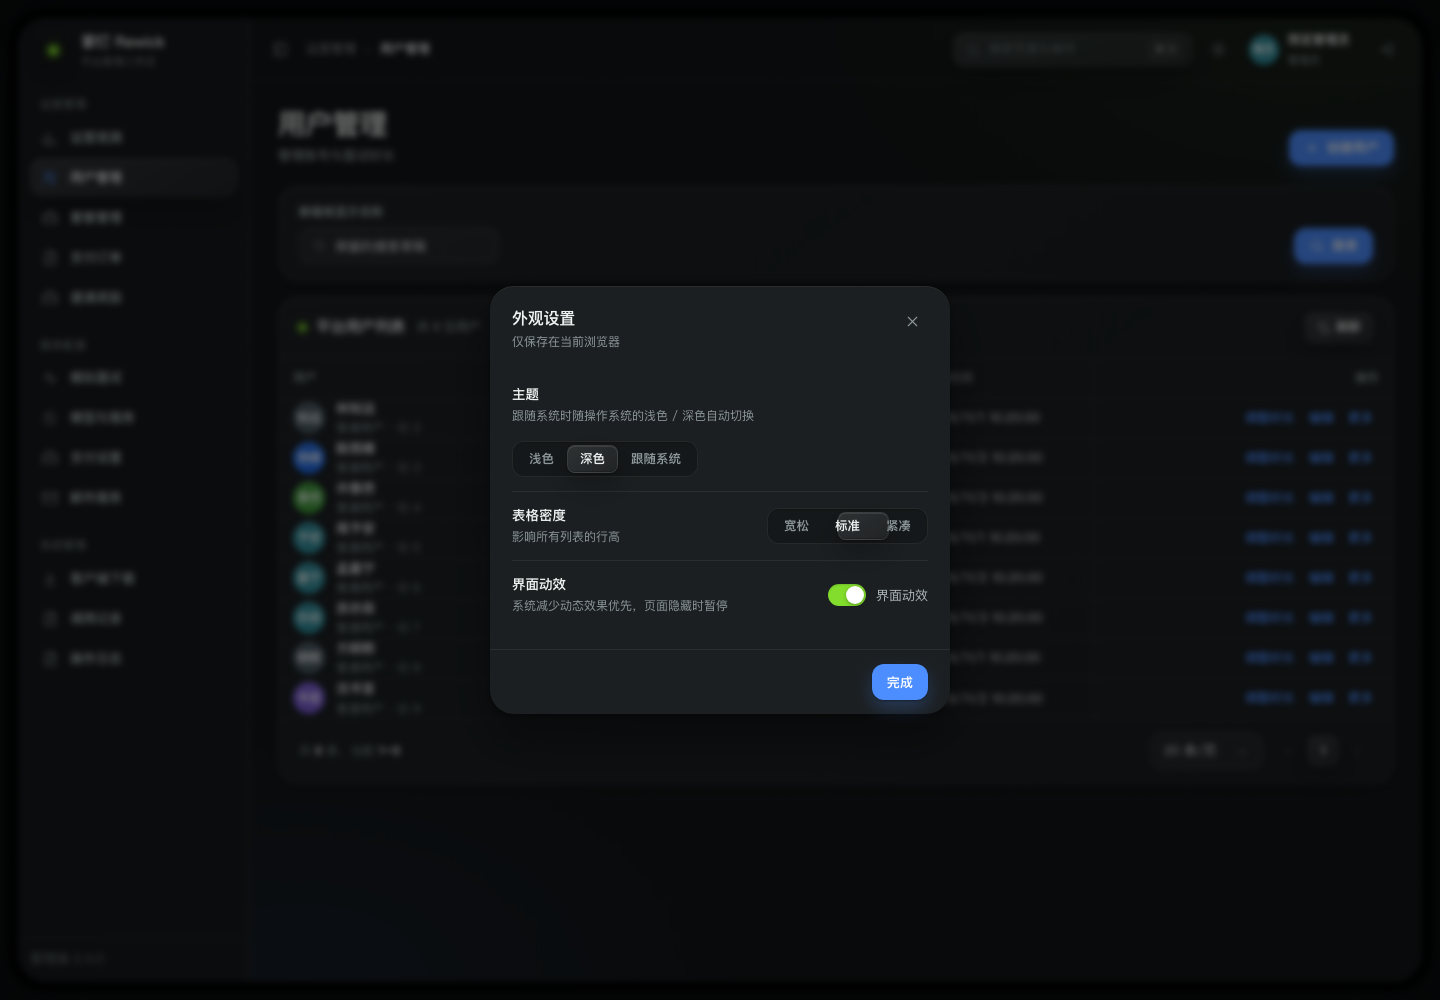
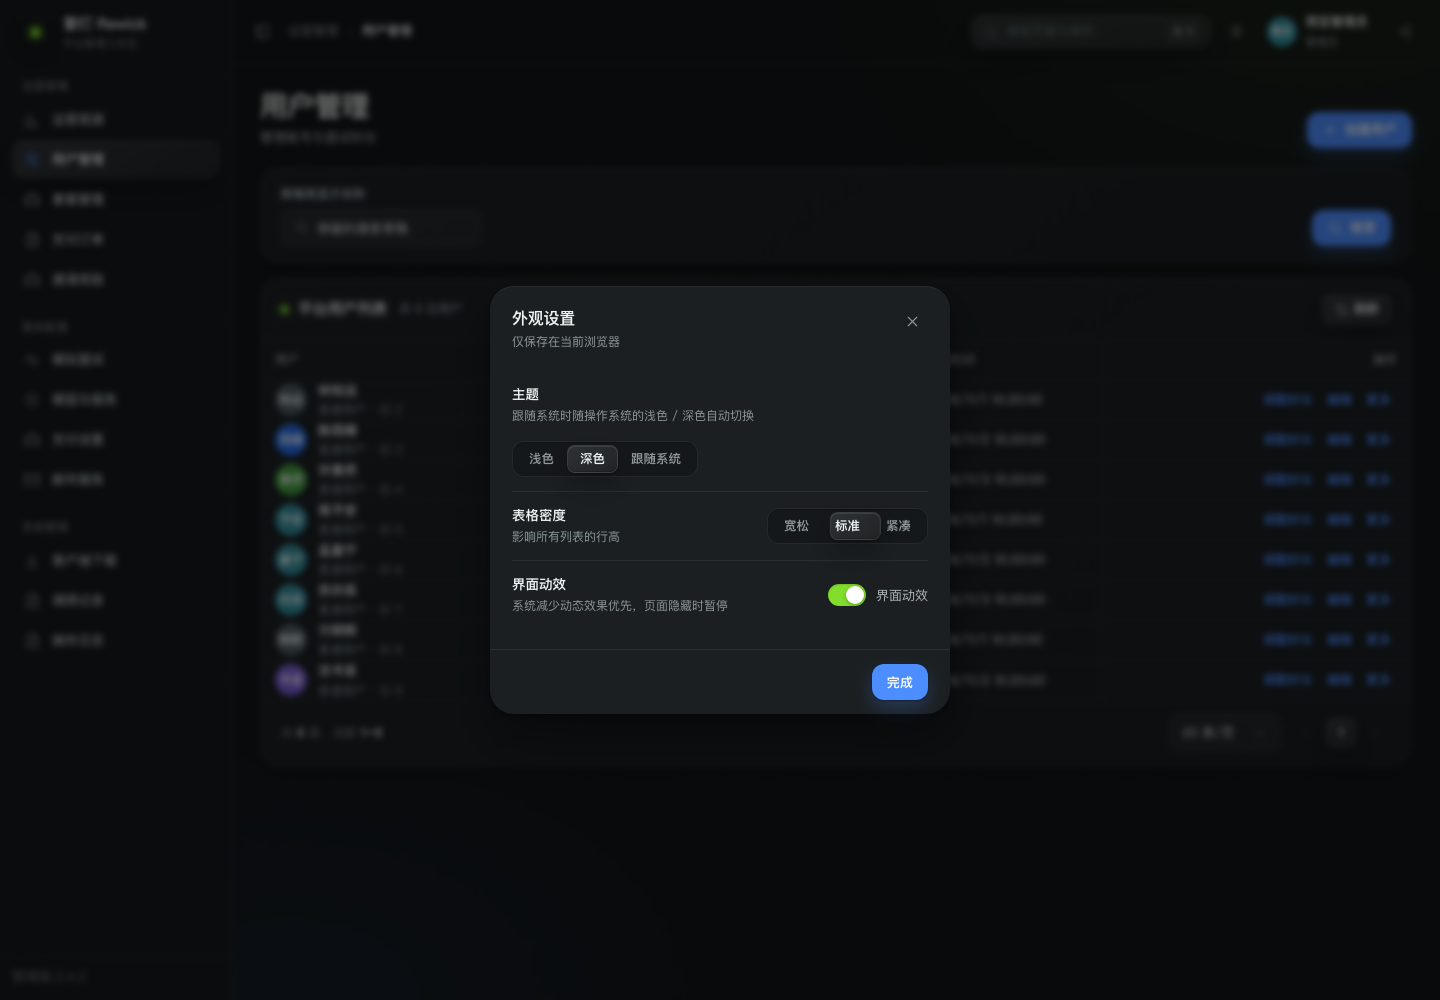
fix: remove heavy admin outer frame (#20)

diff --git a/admin/src/styles/layout.css b/admin/src/styles/layout.css
@@ -1,30 +1,30 @@
 /* ============================================================
-   外壳：舞台 → 深色外框 → 导航轨 + 工作区
+   外壳：全幅玻璃画布 → 导航轨 + 工作区
    ============================================================ */
 
 .stage {
   position: relative;
   min-height: 100dvh;
-  padding: 8px;
+  padding: 0;
   overflow: clip;
   background: var(--stage);
 }
 
 .app-frame {
   position: relative;
-  height: calc(100dvh - 16px);
+  height: 100dvh;
   min-height: 560px;
   display: grid;
   grid-template-columns: var(--rail-w) minmax(0, 1fr);
   overflow: clip;
-  border: 10px solid var(--frame);
-  border-radius: 38px;
+  border: 0;
+  border-radius: 0;
   /* 画布：两团静态漫射光，不参与动画 */
   background:
     radial-gradient(55% 45% at 92% 0%, var(--ambient-a), transparent 70%),
     radial-gradient(45% 40% at 20% 100%, var(--ambient-b), transparent 70%),
     var(--canvas);
-  box-shadow: 0 24px 70px rgba(17, 23, 27, .24), 0 3px 12px rgba(17, 23, 27, .16);
+  box-shadow: none;
 }
 .app-frame.is-collapsed { --rail-w: 76px; }
 

diff --git a/README.md b/README.md
@@ -29,7 +29,7 @@
 
 ## 管理后台外观
 
-管理后台使用 Vue 3、TypeScript、Vite 和 GSAP，直接复用 [scaffold-master](https://github.com/wbr664393425-lgtm/scaffold-master) 的珍珠玻璃样式、公共组件和核心动效，保留 Rewick 现有接口与业务功能。包含导航滑块、分段切换、页面与表格入场、点击反馈、弹窗原点展开和数字滚动；支持浅色/深色/跟随系统、三档密度及减少动态效果，偏好仅保存在当前浏览器。原项目 MIT 许可与 GSAP 独立许可说明见 [第三方说明](admin/third-party/NOTICE.md)。
+管理后台使用 Vue 3、TypeScript、Vite 和 GSAP，直接复用 [scaffold-master](https://github.com/wbr664393425-lgtm/scaffold-master) 的珍珠玻璃样式、公共组件和核心动效，保留 Rewick 现有接口与业务功能。管理页铺满浏览器，不保留深色外框，内部玻璃材质保持。包含导航滑块、分段切换、页面与表格入场、点击反馈、弹窗原点展开和数字滚动；支持浅色/深色/跟随系统、三档密度及减少动态效果，偏好仅保存在当前浏览器。原项目 MIT 许可与 GSAP 独立许可说明见 [第三方说明](admin/third-party/NOTICE.md)。
 
 隔离浏览器回归：先启动管理端，再运行 `npm --prefix admin run test:appearance`，可通过 `ADMIN_PREVIEW_URL` 指向本机生产构建。`test:web-search` 与 `test:operations` 自动启动本地静态预览并使用合成 API；需先构建。`test:smoke` 是需要专用测试账号的真实隔离后端集成验收，不能用于生产数据。 `test:login` 检查登录动画结束后的实际透明度；默认 Chromium，设置 `BROWSER_ENGINES=chromium,webkit` 可双引擎验证（先安装对应 Playwright 浏览器）。
 
@@ -52,7 +52,7 @@
 | `deploy/` | PostgreSQL/pgvector 镜像、Compose 与通用部署文件 |
 | `scripts/backend.mjs` | Maven Wrapper 统一入口 |
 
-三个应用模块独立版本化。桌面当前版本由 `frontend/package.json` 统一维护，为 **2.1.0**；管理端目前为 **2.4.1**，后端为 **2.2.1**。macOS 与 Windows 使用相同的三段应用版本号。
+三个应用模块独立版本化。桌面当前版本由 `frontend/package.json` 统一维护，为 **2.1.0**；管理端目前为 **2.4.2**，后端为 **2.2.1**。macOS 与 Windows 使用相同的三段应用版本号。
 
 ## 本地开发
 

diff --git a/CHANGELOG.md b/CHANGELOG.md
@@ -1,5 +1,12 @@
 # 版本变更记录
 
+## 管理后台移除黑色外框 — 2026-11-03
+
+- 管理端2.4.1 → 2.4.2，兼容样式修复 PATCH +1；后端2.2.1-SNAPSHOT、桌面2.1.0不变，无接口或数据库变更。
+- 去掉管理外壳的10px深色边框、外框圆角、外侧阴影和舞台留边，改成铺满浏览器；保留内部玻璃背景/模糊、漫射光、导航/卡片/弹窗材质及动效。
+- 62项测试、生产构建、十二页18图浏览器回归通过，增加外壳贴合视口/无外框断言，同步README真实预览。仅CSS布局变化，预计API延迟/吞吐、后台CPU/内存、存储、外部调用费用不变；减少一层外侧阴影绘制，未做性能测试。
+- 按用户要求经PR/四CI、精确Tag制品验收后直接部署2.4.2，仅更新管理静态和重建镜像，实际发布/部署状态以Release为准。
+
 ## 登录入场结束后表单消失修复 — 2026-11-03
 
 - 管理端2.4.0 → 2.4.1，兼容修复 PATCH +1；后端2.2.1-SNAPSHOT、桌面2.1.0不变，无接口或数据库变更。
